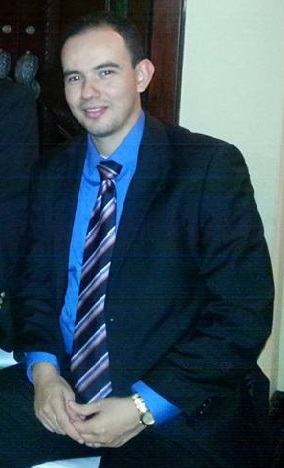
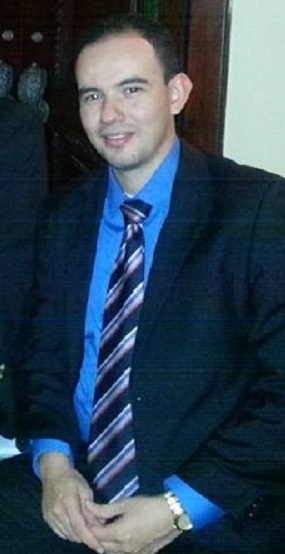
Initial commit...

diff --git a/index.html b/index.html
@@ -99,7 +99,7 @@
         </div>
       </div>
       <!-- <div class="photo"> -->
-      <img  src="images/josue6.png" alt="Image" class="img-face" data-aos="fade">
+      <img  src="images/josue11.png" alt="Image" class="img-face" data-aos="fade">
      <!-- </div> -->
       
     </div>  
@@ -163,12 +163,12 @@
           </div>
           <div class="col-lg-4 order-1 order-lg-2 mb-4 mb-lg-0">
             <div class="bg-light pt-5">
-            <img src="images/josue4.png" alt="Image" class="img-fluid">
+            <img src="images/josue8.jpg" alt="Image" class="img-fluid second-image">
             </div>
           </div>
           <div class="col-lg-4 order-2 order-lg-1">
-            <p>Lorem ipsum dolor sit amet, consectetur adipisicing elit. Perferendis ipsum error eligendi molestiae eaque quas, ducimus sequi excepturi?</p>
-            <p>Lorem ipsum dolor sit amet, consectetur adipisicing elit. Perferendis ipsum error eligendi molestiae eaque quas, ducimus sequi excepturi?</p>
+            <p>I'm a software developer who always try to keep things keep and simple. I belive that is important be organized in order to have impressive results. </p>
+            <p>One of the pilars of my work is to listen well the client, paying careful attention to the details of their requirements.  </p>
           </div>
           <div class="col-lg-4 order-3 order-lg-3">
             <p>Lorem ipsum dolor sit amet, consectetur adipisicing elit. Perferendis ipsum error eligendi molestiae eaque quas, ducimus sequi excepturi?</p>
@@ -193,119 +193,149 @@
 
         
         <div id="posts" class="row no-gutter">
-
-          <div class="item web col-6 col-sm-6 col-md-6 col-lg-4 col-xl-4 mb-4">
-            <a class="popup-with-form  mrb50 item-wrap" href="#test-form">
-              <span class="icon-search2"></span>
-              <img class="img-fluid" src="images/gynecology2.jpg">
-            </a>
-            <!-- form itself -->
-              <form id="test-form" class="mfp-hide white-popup-block">
-                <h1 class="h1Form">GYN WEB</h1>
-                <fieldset style="border:0;">
-                  <p class="Form-pharagraph"> <span class="Form-span"> Description:</span> GYN WEB is a Web app to manage all the clinical hystory of the gynecological patients.</p>
-                  <p class="Form-pharagraph"> <span class="Form-span"> Technologies used:</span> </p>
-                  <ul >
-                    <li>
-                      <p class="Form-pharagraph"> React.js</p>
-                    </li>
-                    <li>
-                      <p class="Form-pharagraph"> Node.js</p>
-                    </li>                  
-                      <li>
-                        <p class="Form-pharagraph"> Context Api</p>
-                      </li>
-                      <li>
-                        <p class="Form-pharagraph"> Material UI</p>
-                      </li>                                          
-                      <li>
-                        <p class="Form-pharagraph"> Mongodb</p>
-                      </li>
-                      <li>
-                        <p class="Form-pharagraph"> AWS</p>
-                      </li>
-                  </ul>
-                  <p class="Form-pharagraph"> <span class="Form-span"> URL Address:</span> <span><a target="_blank" href="https://gynweb.netlify.app/" >https://gynweb.netlify.app/</a> </span>  </p>                  
-                  <p class="Form-pharagraph"> <span class="Form-span"> Frontend repo:</span> <span><a target="_blank" href="https://github.com/josueroque/clinicFront" >https://github.com/josueroque/clinicFront</a> </span>  </p>                  
-                  <p class="Form-pharagraph"> <span class="Form-span"> Backend repo:</span> <span><a target="_blank" href="https://github.com/josueroque/clinic" >https://github.com/josueroque/clinic</a> </span>  </p>                  
-
-                </fieldset>
-              </form>
-          </div>
-          <div class="item web col-6 col-sm-6 col-md-6 col-lg-4 col-xl-4 mb-4">
-            <a class="popup-with-form  mrb50 item-wrap" href="#test-form">
-              <span class="icon-search2"></span>
-              <img class="img-fluid" src="images/gynecology.jpg">
-            </a>
-            <!-- form itself -->
-              <form id="test-form" class="mfp-hide white-popup-block">
-                <h1 class="h1Form">Form</h1>
-                <fieldset style="border:0;">
-                  <p>Lightbox has an option to automatically focus on the first input. It's strongly recommended to use <code>inline</code> popup type for lightboxes with form instead of <code>ajax</code> (to keep entered data if the user accidentally refreshed the page).</p>
-                  <ol>
-                    <li>
-                      <label for="name">Name</label>
-                      <input id="name" name="name" type="text" placeholder="Name" required="">
-                    </li>
-                    <li>
-                      <label for="email">Email</label>
-                      <input id="email" name="email" type="email" placeholder="example@domain.com" required="">
-                    </li>
-                    <li> 
-                      <label for="phone">Phone</label>
-                      <input id="phone" name="phone" type="tel" placeholder="Eg. +447500000000" required="">
-                    </li>
-                    <li>
-                      <label for="textarea">Textarea</label><br>
-                      <textarea id="textarea">Try to resize me to see how popup CSS-based resizing works.</textarea>
-                    </li>
-                  </ol>
-                </fieldset>
-              </form>
-          </div>
-
-          <div id="posts" class="row no-gutter">
-
-            <div class="item web col-6 col-sm-6 col-md-6 col-lg-4 col-xl-4 mb-4">
-              <a class="popup-with-form  mrb50 item-wrap" href="#test-form">
-                <span class="icon-search2"></span>
-                <img class="img-fluid" src="images/gynecology.jpg">
-              </a>
-              <!-- form itself -->
-                <form id="test-form" class="mfp-hide white-popup-block">
-                  <h1 class="h1Form">Form</h1>
-                  <fieldset style="border:0;">
-                    <p>Lightbox has an option to automatically focus on the first input. It's strongly recommended to use <code>inline</code> popup type for lightboxes with form instead of <code>ajax</code> (to keep entered data if the user accidentally refreshed the page).</p>
-                    <ol>
-                      <li>
-                        <label for="name">Name</label>
-                        <input id="name" name="name" type="text" placeholder="Name" required="">
-                      </li>
-                      <li>
-                        <label for="email">Email</label>
-                        <input id="email" name="email" type="email" placeholder="example@domain.com" required="">
-                      </li>
-                      <li> 
-                        <label for="phone">Phone</label>
-                        <input id="phone" name="phone" type="tel" placeholder="Eg. +447500000000" required="">
-                      </li>
-                      <li>
-                        <label for="textarea">Textarea</label><br>
-                        <textarea id="textarea">Try to resize me to see how popup CSS-based resizing works.</textarea>
-                      </li>
-                    </ol>
-                  </fieldset>
-                </form>
-            </div>
-  
           
-        </div>
+          <div class="item web col-6 col-sm-6 col-md-6 col-lg-4 col-xl-4 mb-4">
+            
+            <a class="popup-with-form  mrb50 item-wrap Form-a" href="#carsdeals-form">
+              <h3 class="Portfolio-title">Cardeals</h3>
+              <span class="icon-search2"></span>
+              <img class="img-fluid" src="images/carsdeals.png">
+            </a>
+            <!-- form itself -->
+              <form id="carsdeals-form" class="mfp-hide white-popup-block test-form">
+                <div class="Form-container">
+                  <h1 class="h1Form">Carsdeals</h1>
+                  <fieldset style="border:0;">
+                    <p class="Form-pharagraph"> <span class="Form-span"> Description:</span> GYN WEB is a Web app to manage all the clinical hystory of the gynecological patients.</p>
+                    <p class="Form-pharagraph"> <span class="Form-span"> Technologies used:</span> </p>
+                    <ul >
+                      <li>
+                        <p class="Form-pharagraph"> React.js</p>
+                      </li>
+                      <li>
+                        <p class="Form-pharagraph"> Node.js</p>
+                      </li>                  
+                        <li>
+                          <p class="Form-pharagraph"> Context Api</p>
+                        </li>
+                        <li>
+                          <p class="Form-pharagraph"> Material UI</p>
+                        </li>                                          
+                        <li>
+                          <p class="Form-pharagraph"> Mongodb</p>
+                        </li>
+                        <li>
+                          <p class="Form-pharagraph"> AWS</p>
+                        </li>
+                    </ul>
+                    <p class="Form-pharagraph"> <span class="Form-span"> URL Address:</span> <span><a target="_blank" href="https://gynweb.netlify.app/" >https://gynweb.netlify.app/</a> </span>  </p>                  
+                    <p class="Form-pharagraph"> <span class="Form-span"> Frontend repo:</span> <span><a target="_blank" href="https://github.com/josueroque/clinicFront" >https://github.com/josueroque/clinicFront</a> </span>  </p>                  
+                    <p class="Form-pharagraph"> <span class="Form-span"> Backend repo:</span> <span><a target="_blank" href="https://github.com/josueroque/clinic" >https://github.com/josueroque/clinic</a> </span>  </p>                  
+                    <!-- <iframe width="480" height="360" class="Form-iframe" auto
+                    src="https://www.youtube.com/embed/9IY6sOJglvo?autoplay=0">
+                    </iframe>  -->
+                  </fieldset>
+                </div>  
+              </form>
+              
+          </div>
+          <div class="item web col-6 col-sm-6 col-md-6 col-lg-4 col-xl-4 mb-4">
+            
+            <a class="popup-with-form  mrb50 item-wrap Form-a" href="#clinic-form">
+              <h3 class="Portfolio-title">GynWeb</h3>
+              <span class="icon-search2"></span>
+              <img class="img-fluid" src="images/clinica.png">
+            </a>
+            <!-- form itself -->
+              <form id="clinic-form" class="mfp-hide white-popup-block test-form">
+                <div class="Form-container">
+                  <h1 class="h1Form">GYN WEB</h1>
+                  <fieldset style="border:0;">
+                    <p class="Form-pharagraph"> <span class="Form-span"> Description:</span> GYN WEB is a Web app to manage all the clinical hystory of the gynecological patients.</p>
+                    <p class="Form-pharagraph"> <span class="Form-span"> Technologies used:</span> </p>
+                    <ul >
+                      <li>
+                        <p class="Form-pharagraph"> React.js</p>
+                      </li>
+                      <li>
+                        <p class="Form-pharagraph"> Node.js</p>
+                      </li>                  
+                        <li>
+                          <p class="Form-pharagraph"> Context Api</p>
+                        </li>
+                        <li>
+                          <p class="Form-pharagraph"> Material UI</p>
+                        </li>                                          
+                        <li>
+                          <p class="Form-pharagraph"> Mongodb</p>
+                        </li>
+                        <li>
+                          <p class="Form-pharagraph"> AWS</p>
+                        </li>
+                    </ul>
+                    <p class="Form-pharagraph"> <span class="Form-span"> URL Address:</span> <span><a target="_blank" href="https://gynweb.netlify.app/" >https://gynweb.netlify.app/</a> </span>  </p>                  
+                    <p class="Form-pharagraph"> <span class="Form-span"> Frontend repo:</span> <span><a target="_blank" href="https://github.com/josueroque/clinicFront" >https://github.com/josueroque/clinicFront</a> </span>  </p>                  
+                    <p class="Form-pharagraph"> <span class="Form-span"> Backend repo:</span> <span><a target="_blank" href="https://github.com/josueroque/clinic" >https://github.com/josueroque/clinic</a> </span>  </p>                  
+                    <!-- <iframe width="480" height="360" class="Form-iframe" auto
+                    src="https://www.youtube.com/embed/9IY6sOJglvo?autoplay=0">
+                    </iframe>  -->
+                  </fieldset>
+                </div>  
+              </form>
+              
+          </div>
+          <div class="item web col-6 col-sm-6 col-md-6 col-lg-4 col-xl-4 mb-4">
+            
+            <a class="popup-with-form  mrb50 item-wrap Form-a" href="#carsdeals-form">
+              <h3 class="Portfolio-title">Soccerfever</h3>
+              <span class="icon-search2"></span>
+              <img class="img-fluid" src="images/soccer1.png">
+            </a>
+            <!-- form itself -->
+              <form id="carsdeals-form" class="mfp-hide white-popup-block test-form">
+                <div class="Form-container">
+                  <h1 class="h1Form">Carsdeals</h1>
+                  <fieldset style="border:0;">
+                    <p class="Form-pharagraph"> <span class="Form-span"> Description:</span> GYN WEB is a Web app to manage all the clinical hystory of the gynecological patients.</p>
+                    <p class="Form-pharagraph"> <span class="Form-span"> Technologies used:</span> </p>
+                    <ul >
+                      <li>
+                        <p class="Form-pharagraph"> React.js</p>
+                      </li>
+                      <li>
+                        <p class="Form-pharagraph"> Node.js</p>
+                      </li>                  
+                        <li>
+                          <p class="Form-pharagraph"> Context Api</p>
+                        </li>
+                        <li>
+                          <p class="Form-pharagraph"> Material UI</p>
+                        </li>                                          
+                        <li>
+                          <p class="Form-pharagraph"> Mongodb</p>
+                        </li>
+                        <li>
+                          <p class="Form-pharagraph"> AWS</p>
+                        </li>
+                    </ul>
+                    <p class="Form-pharagraph"> <span class="Form-span"> URL Address:</span> <span><a target="_blank" href="https://gynweb.netlify.app/" >https://gynweb.netlify.app/</a> </span>  </p>                  
+                    <p class="Form-pharagraph"> <span class="Form-span"> Frontend repo:</span> <span><a target="_blank" href="https://github.com/josueroque/clinicFront" >https://github.com/josueroque/clinicFront</a> </span>  </p>                  
+                    <p class="Form-pharagraph"> <span class="Form-span"> Backend repo:</span> <span><a target="_blank" href="https://github.com/josueroque/clinic" >https://github.com/josueroque/clinic</a> </span>  </p>                  
+                    <!-- <iframe width="480" height="360" class="Form-iframe" auto
+                    src="https://www.youtube.com/embed/9IY6sOJglvo?autoplay=0">
+                    </iframe>  -->
+                  </fieldset>
+                </div>  
+              </form>
+              
+          </div>
+
       </div>
 
     </section>
 
 
-    <section class="site-section bg-dark">
+    <!-- <section class="site-section bg-dark">
       <div class="container">
         <div class="row">
           <div class="col-12 mb-5 position-relative">
@@ -333,7 +363,7 @@
           </div>
         </div>
       </div>
-    </section>
+    </section> -->
 
     <section class="site-section"  id="clients-section">
       <div class="container">

diff --git a/css/style.css b/css/style.css
@@ -100,21 +100,50 @@ body:after {
   padding: 2.5em 0; }
 
   
-  #test-form{
-    width: 75vw;
-    height:40vw ;
+  .test-form{
+    width: 88vw;
+    height:42vw !important;
     margin-left: 10vw;
     background-color:white;
-    opacity:80% ;
+    opacity:90% ;
+    background-image: "images/clinica.png";
+    background-size: 75%;
   }
 
+  .Form-container{
+    position: absolute;
+    margin-top: 4vw;    
+  }
+  
+  .Form-a{
+    
+    text-decoration-color: black !important;
+  }
+  
   #test-form li{
-  margin-left: 5vw;
+  margin-left: 2vw;
   line-height: 50%;
   
   }
+
+  .item{
+  margin-top: -5vw;  
+  /* border-style: groove !important; */
+  border-radius: 2vw !important;
+  border-color: gray;
+
+  } 
   .h1Form{
     text-align: center !important;
+    color: black;
+    margin-top: 0vw !important;
+  }
+
+  .Form-iframe{
+    margin-left: 50vw;
+    border-style: none;
+    /* position: absolute; */
+    margin-top: -23vw;
   }
 
  .Form-pharagraph{
@@ -123,9 +152,19 @@ body:after {
  }
 
  .Form-span{
-   color: blue;
+   color: black;
+   font-style: italic;
  }
 
+ .Portfolio-title{
+   text-align: center;
+ }
+
+ .second-image{
+   margin-top: -5vw !important;
+   border-radius: 50% !important;
+   border-style: initial;
+ }
 
   @media (min-width: 768px) {
     .site-section {
@@ -623,6 +662,7 @@ body:after {
   .site-blocks-cover .img-face {
     position: absolute;
     right: 15%;
+    /* margin-top: -10vw !important; */
     bottom: 0;
     z-index: 1;
     max-width: 950px; }

diff --git a/scss/_site-blocks.scss b/scss/_site-blocks.scss
@@ -43,6 +43,7 @@
 
 	.img-face {
 		position: absolute;
+		 margin-top: -15vw !important;
 		margin-left: 1vw !important;
 		right: -5%;
 		bottom: 0;
